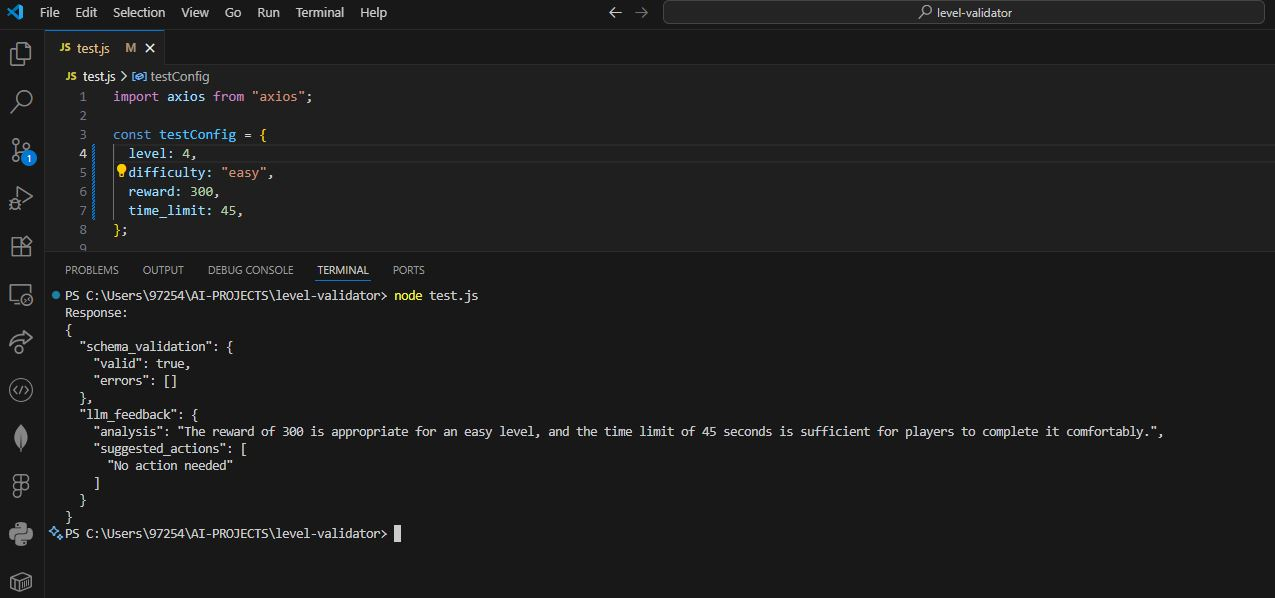
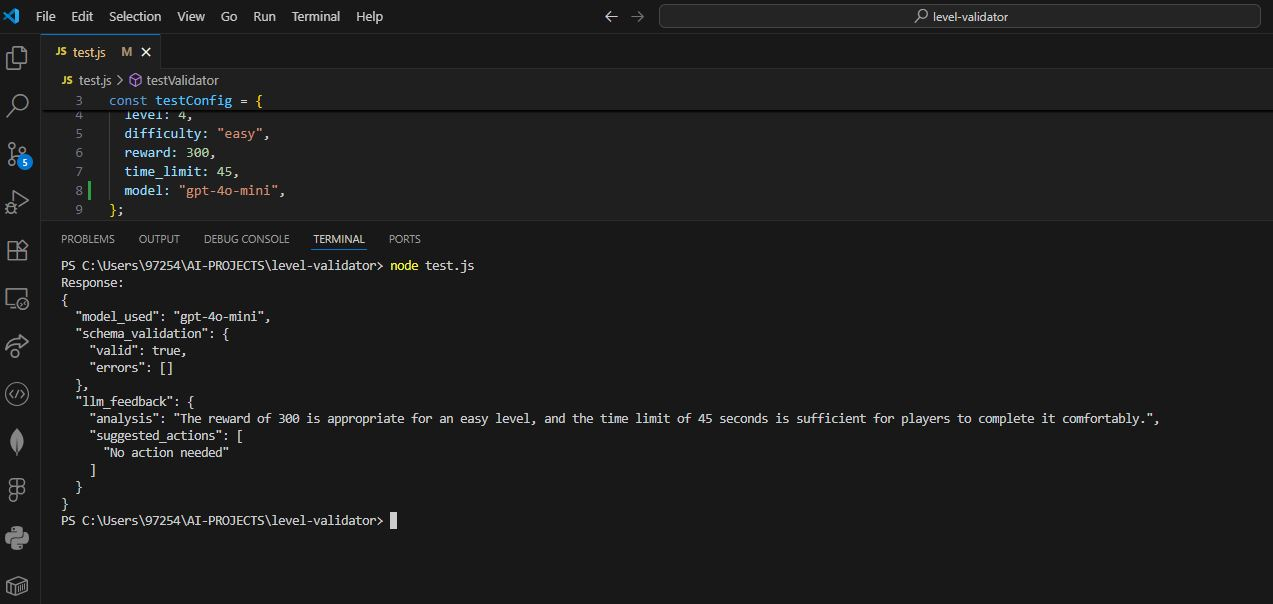
Allowed selection between different models

diff --git a/index.js b/index.js
@@ -9,7 +9,7 @@ const app = express();
 app.use(express.json());
 
 const PORT = process.env.PORT || 3001;
-const MODEL = process.env.OPENAI_MODEL;
+const DEFAULT_MODEL = process.env.OPENAI_MODEL;
 
 const client = new OpenAI({
   apiKey: process.env.OPENAI_API_KEY,
@@ -22,6 +22,7 @@ const schema = {
     difficulty: { type: "string", enum: ["easy", "medium", "hard"] },
     reward: { type: "number" },
     time_limit: { type: "number" },
+    model: { type: "string" },
   },
   required: ["level", "difficulty", "reward", "time_limit"],
   additionalProperties: false,
@@ -33,9 +34,26 @@ const validate = ajv.compile(schema);
 app.post("/validate", async (req, res) => {
   const config = req.body;
 
-  //Schema validation
-  const isValidSchema = validate(config);
+  const modelFromRequest = config.model;
+  const selectedModel = modelFromRequest || DEFAULT_MODEL;
 
+  const supportedModels = new Set([
+    "gpt-4-turbo",
+    "gpt-3.5-turbo",
+    "gpt-4o-mini",
+  ]);
+
+  //Schema validation
+
+  if (!supportedModels.has(selectedModel)) {
+    return res.status(400).json({
+      error: `Unsupported model '${selectedModel}'. Supported models: ${Array.from(
+        supportedModels
+      ).join(", ")}`,
+    });
+  }
+
+  const isValidSchema = validate(config);
   if (!isValidSchema) {
     return res.status(400).json({
       schema_validation: "failed",
@@ -46,14 +64,17 @@ app.post("/validate", async (req, res) => {
   const prompt = `
   You are an experienced game designer reviewing the balance of a level of configuration in a mobile game.
 
-  Evaluate whether the configuration makes sense in terms of game balance and player experience. For example:
-  - Easy: 100-500 rewards, >30s time limit
-  - Medium: 500-2000 rewards, 20-60s time limit
-  - Hard: 2000-5000 rewards, 10-30s time limit
+  Evaluate whether the configuration makes sense in terms of game balance and player experience. 
+  
+  You MUST apply the following balancing rules as hard constraints. Do NOT allow any deviation or personal interpretation.
+  - Easy: reward must be between 100 and 500 inclusive, and time_limit must be at least 30 seconds. A value of exactly 30 seconds is allowed.
+  - Medium: reward must be between 500 and 2000 inclusive, and time_limit must be between 20 and 60 seconds inclusive. A value of exactly 20 or 60 is allowed.
+  - Hard: reward must be between 2000 and 5000 inclusive, and time_limit must be between 10 and 30 seconds inclusive. A value of exactly 10 or 30 is allowed.
+
 
   Be concise. Use no more than 3 sentences in your analysis. Return only a JSON response in this format:
     {
-        "analysis": "Short explanation"",
+        "analysis": "Short explanation",
         "suggested_actions": ["Action 1", "Action 2"]
     }
    
@@ -90,7 +111,7 @@ app.post("/validate", async (req, res) => {
         "suggested_actions": ["No action needed"]
     }
 
-  Use the difficulty/reward/time mapping strictly as reference rules.      
+  Do not ignore the rules above. Only use them to guide your evaluation.     
   Respond as a JSON object only.    
 
   Now evaluate the following configuration:
@@ -102,11 +123,12 @@ app.post("/validate", async (req, res) => {
   // LLM review
   try {
     const response = await client.chat.completions.create({
-      model: MODEL,
+      model: selectedModel,
       messages: [
         {
           role: "system",
-          content: "You are a helpful assistant that returns only valid JSON.",
+          content:
+            "You are a rule-based game configuration reviewer. Return a valid JSON only. Never use subjective judgment. Follow numeric rules as hard constraints ",
         },
         {
           role: "user",
@@ -131,6 +153,7 @@ app.post("/validate", async (req, res) => {
     }
 
     return res.status(200).json({
+      model_used: selectedModel,
       schema_validation: {
         valid: true,
         errors: [],

diff --git a/test.js b/test.js
@@ -5,6 +5,8 @@ const testConfig = {
   difficulty: "easy",
   reward: 300,
   time_limit: 45,
+  // You can use another model: "gpt-4-turbo", "gpt-3.5-turbo" or leave empty to use the default model
+  model: "gpt-4o-mini",
 };
 
 async function testValidator() {

diff --git a/README.md b/README.md
@@ -3,6 +3,8 @@
 This microservice was built as a professional challenge for an Israeli mobile gaming company.
 It validates JSON-based game level configurations using schema validation and LLM-based logical review.
 
+Supports flexible model switching between OpenAI models. You can specify the model(e.g gpt-4o-turbo, gpt-4o-mini, gpt-3.5-turbo) directly in the request body. If no model is provided, it will automatically fall back to the default model defined in the .env file .
+
 Tech stack: Node.js, AJV, OpenAI API, structured JSON output.
 
 ## Few-Shot Prompting
@@ -56,18 +58,17 @@ node test.js
 
 ## Test Examples & Outputs 🧪
 
-To ensure both schema and logic are validated correctly, I tested three representative schenarios:
+To ensure both schema and logic are validated correctly, here are some examples of representative schenarios:
 
-1. **Unbalanced Reward-Time Configuration**
+1. **Unbalanced Reward-Time Configuration** (Using gpt-3.5-turbo)
    A mid-level setup with too high reward and too short time limit.
    Expected to trigger feedback and suggested fixes.
    ![תמונה](https://github.com/OliaKr/level-validator/blob/main/public/Capture1.JPG)
 
-2. **Balanced Easy-Level setup**
+2. **Balanced Easy-Level setup** (Using gpt-4o-mini)
    A properly configured easy-level input, used to confirm that the model recognizes well-balanced cases.
    ![תמונה](https://github.com/OliaKr/level-validator/blob/main/public/Capture2.JPG)
 
-3. **Bordeline configuration for medium level**
-   An edge case with a slightly high reward and tight time limit for a medium level.
-   Used to test the model's nuanced judgment.
+3. **Balanced Easy-Level setup** (Using gpt-4-turbo)
+   A hard-level configuration with reward and time limit values outside the acceptable range for this difficulty.
    ![תמונה](https://github.com/OliaKr/level-validator/blob/main/public/Capture3.JPG)
